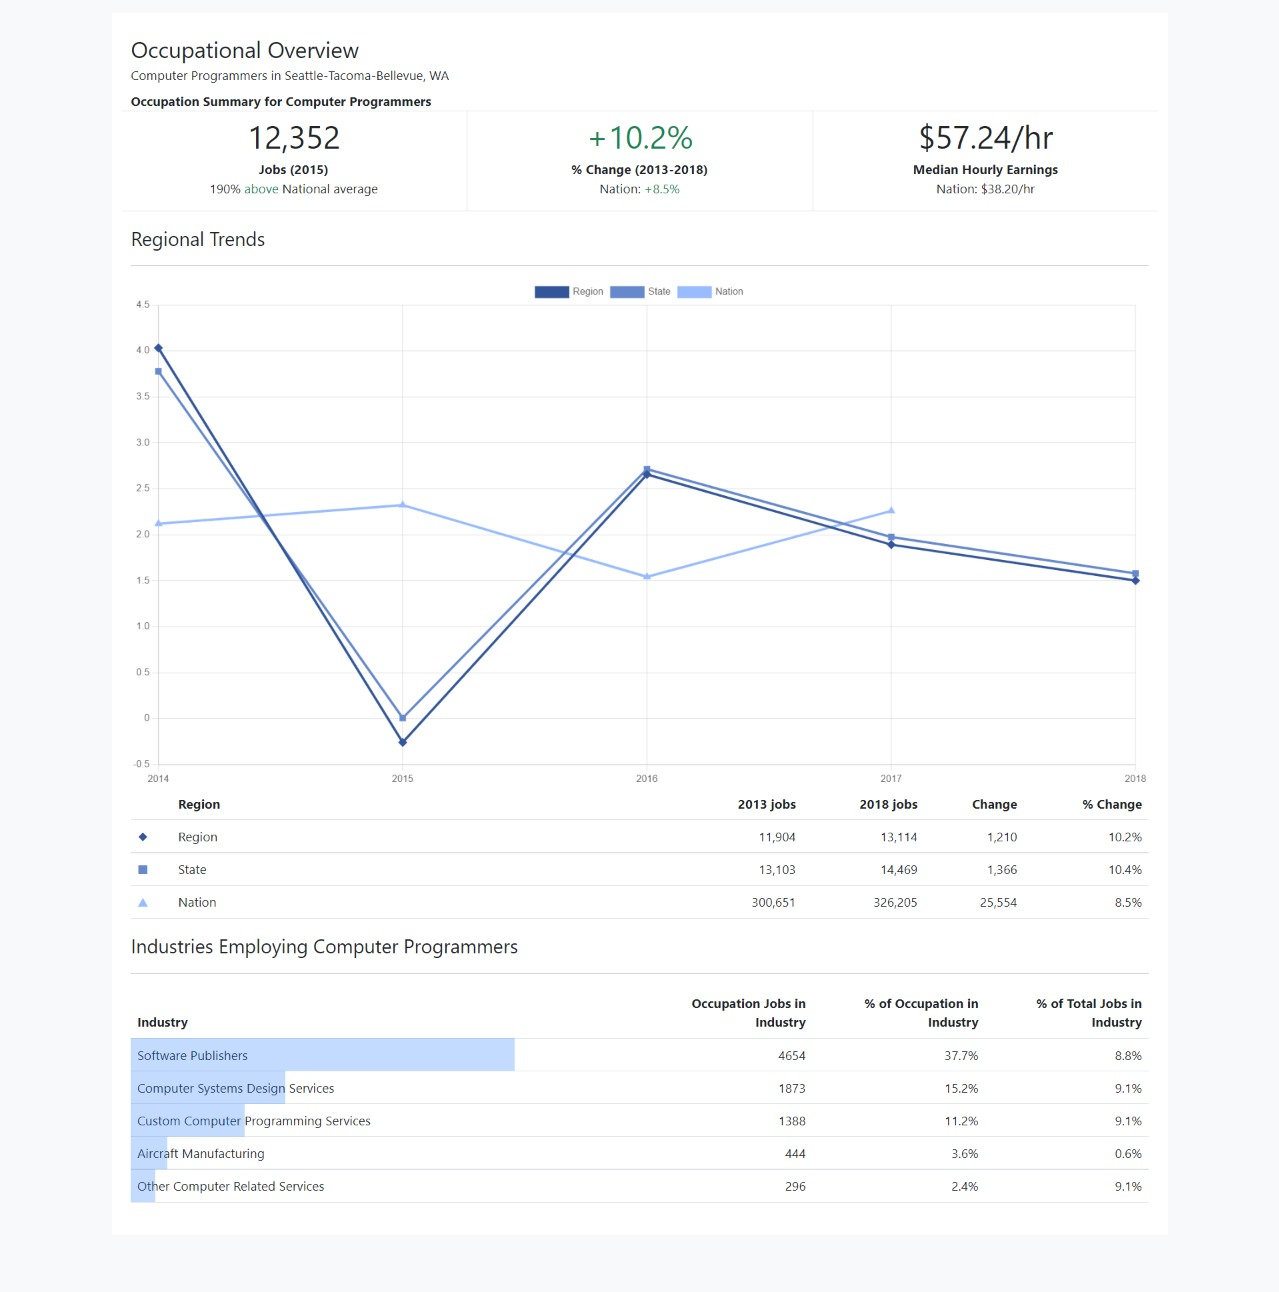
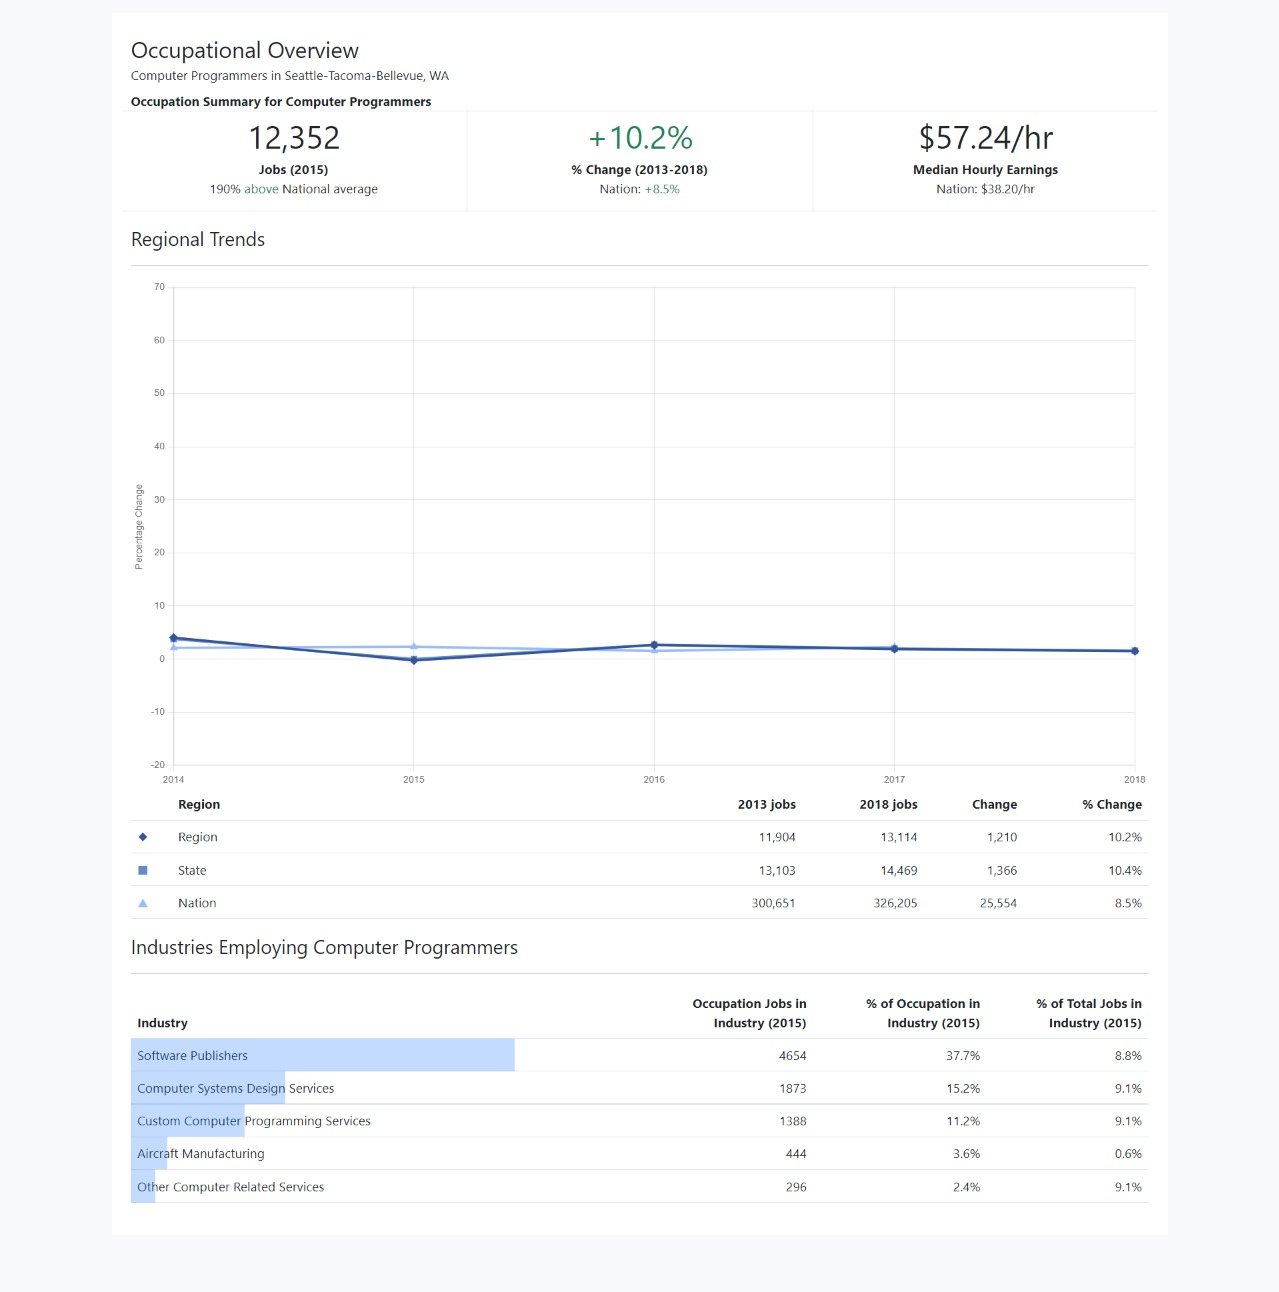
Fixed oversights on labels, removed legend from top of screen

diff --git a/js/index.js b/js/index.js
@@ -87,6 +87,23 @@ function loadResponse(resp) {
                     borderColor: "#9BF"
                 }
             ]
+        },
+        options: {
+            scales: {
+                y: {
+                    min: -20,
+                    max: 70,
+                    title: {
+                        display: true,
+                        text: 'Percentage Change'
+                    }
+                }
+            },
+            plugins: {
+                legend: {
+                    display: false
+                }
+            }
         }
     });
 
@@ -135,6 +152,10 @@ function loadResponse(resp) {
     // Industries Table
     document.getElementById("industryTitle").innerHTML =
         "Industries Employing " + resp.occupation.title;
+
+    for (let e of document.getElementsByClassName("industry-add-year")) {
+        e.innerHTML += ` (${resp.employing_industries.year})`
+    }
 
     for (const r of resp.employing_industries.industries) {
         const percentOfTotalJobs = (r.in_occupation_jobs / resp.employing_industries.jobs * 100).toFixed(1)
